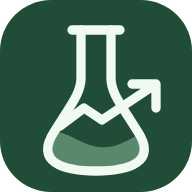
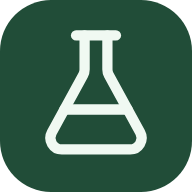
Ship the licensed PWA flask and notice (SW341) (#432)
SW341: Lizenzierter Kolben für Favicon und PWA

Changed region(s): [[0.2188, 0.125, 0.8438, 0.9375]]

diff --git a/sw.js b/sw.js
@@ -1,5 +1,5 @@
-const CACHE='foliolab-open-v340';
-const ASSETS=['./src/portfolio-projection.js','./src/portfolio-projection-ui.js','./src/install-hint-preference.js','./src/wallet-identity.js','./src/flatex-net-reconciliation.js','./src/shared-flatex-reconciliation-ui.js','./src/shared-import.js','./src/shared-import-ui.js','./src/shared-flatex-ui.js','./','./src/link-explorer-evidence.js','./src/kraken-link-bridge.js','./src/flatex-net-settlement.js','./src/startup.js','./src/loading-ui.js','./icons/flask-192.png','./icons/flask-512.png','./icons/flask-maskable-512.png','./src/unified-bitcoin.js','./src/unified-bitcoin-ui.js','./src/retired-providers.js','./src/marketstack.js','./src/alpha-vantage.js','./src/backup-limits.js','./src/header-status.js','./src/blocked-reasons-ui.js','./src/flatex-native-ui.js','./src/flatex-native.js','./src/bitpanda-preview-ui.js','./src/csv-records.js','./src/bitpanda-preview.js','./src/bitpanda-import.js','./src/bitpanda-withdrawal-evidence.js','./src/bitpanda-import-ui.js','./src/kraken-ledger.js','./src/kraken-ledger-ui.js','./src/kraken-source-plan.js','./src/kraken-bitcoin-bridge.js','./src/kraken-ethereum-bridge.js','./src/kraken-solana-bridge.js','./src/kraken-import.js','./src/kraken-withdrawal-evidence.js','./src/kraken-import-ui.js','./src/pchain-identity.js','./src/reference-management.js','./src/sonic-staking-evidence.js','./src/pchain-evidence.js','./src/ledger-live.js','./src/ledger-live-ui.js','./src/account-evidence.js','./src/booking-management.js','./src/csv-batch.js','./src/history-evidence-cache.js','./src/wealth-model-history.js','./src/history-display-estimates.js','./src/historical-portfolio-value.js','./src/historical-position-value.js','./src/purchase-evidence.js','./src/purchase-evidence-ui.js','./src/interest-ui.js','./src/interest-account.js','./src/interest-scenario.js','./src/cash-reconciliation.js','./src/cash-terms.js','./src/cash-terms-ui.js','./src/wallet-history-calculation.js','./src/wallet-history-days-worker.js','./src/wallet-history-valuation.js','./src/solana-history.js','./src/wallet-history-days.js','./src/wallet-history-ui.js','./src/wallet-history-state.js','./src/ethereum-history.js','./src/bitcoin-history.js','./src/wallet-history-core.js','./src/import-identity.js','./index.html','./styles.css','./src/credential-visibility.js','./src/economic-form-ui.js','./src/dialog-discard.js','./src/app.js','./src/drive-backup.js','./src/backup-vault.js','./src/complete-backup.js','./src/account-opening.js','./src/portfolio-edit-actions.js','./src/position-selection.js','./src/coin-identity.js','./src/position-search.js','./src/asset-wizard.js','./src/asset-wizard-core.js','./src/public-instruments-client.js','./src/refresh-ui.js','./src/refresh-frequency.js','./src/market-diagnostics.js','./src/quote-quality.js','./src/dashboard-ui.js','./src/chart-periods.js','./src/position-history.js','./src/eodhd-transport.js','./src/eodhd-worker-client.js','./src/security-sources.js','./src/security-discovery.js','./src/onboarding-suggestions.js','./src/reference-listings.js','./src/instrument-catalog.js','./src/security-catalog.js','./src/crypto-fallbacks.js','./src/historical-csv.js','./src/position-detail-ui.js','./src/position-bookings.js','./src/flatex-review-export.js','./src/allocation-ui.js','./src/position-quality-review.js','./src/valuation-status.js','./src/legacy-quote-audit.js','./src/atomic-storage.js','./src/browser-portfolio-storage.js','./src/model.js','./src/fx-state.js','./src/assets.js','./src/decimal.js','./src/transfer-matching-ui.js','./src/transactions.js','./src/blockchain-adapters.js','./src/performance.js','./src/market.js','./src/staking-discovery.js','./src/bnb-token-scanner.js','./src/solana-rpc.js','./src/wallet-scan-update.js','./src/ethereum-fallback.js','./src/native-staking-networks.js','./src/staking-catalog.js','./src/wallet-visibility.js','./src/request-cache.js','./src/csv-import.js','./src/flatex-import.js','./src/flatex-reconciliation.js','./src/flatex-backfill.js','./src/flatex-cost-basis.js','./src/flatex-settlements.js','./src/flatex-settlement-audit.js','./src/flatex-cash-audit.js','./src/booking-history.js','./src/booking-history-ui.js','./src/booking-insights-ui.js','./src/booking-insights.js','./src/capital-flows.js','./src/xrpl-assets.js','./src/bitcoin-hd.js','./src/defi.js','./src/position-icons.js','./src/format.js','./src/crypto-backup.js','./icons/flask.svg','./manifest.webmanifest'];
+const CACHE='foliolab-open-v341';
+const ASSETS=['./src/portfolio-projection.js','./src/portfolio-projection-ui.js','./src/install-hint-preference.js','./src/wallet-identity.js','./src/flatex-net-reconciliation.js','./src/shared-flatex-reconciliation-ui.js','./src/shared-import.js','./src/shared-import-ui.js','./src/shared-flatex-ui.js','./','./src/link-explorer-evidence.js','./src/kraken-link-bridge.js','./src/flatex-net-settlement.js','./src/startup.js','./src/loading-ui.js','./icons/flask-192.png','./icons/flask-512.png','./icons/flask-maskable-512.png','./src/unified-bitcoin.js','./src/unified-bitcoin-ui.js','./src/retired-providers.js','./src/marketstack.js','./src/alpha-vantage.js','./src/backup-limits.js','./src/header-status.js','./src/blocked-reasons-ui.js','./src/flatex-native-ui.js','./src/flatex-native.js','./src/bitpanda-preview-ui.js','./src/csv-records.js','./src/bitpanda-preview.js','./src/bitpanda-import.js','./src/bitpanda-withdrawal-evidence.js','./src/bitpanda-import-ui.js','./src/kraken-ledger.js','./src/kraken-ledger-ui.js','./src/kraken-source-plan.js','./src/kraken-bitcoin-bridge.js','./src/kraken-ethereum-bridge.js','./src/kraken-solana-bridge.js','./src/kraken-import.js','./src/kraken-withdrawal-evidence.js','./src/kraken-import-ui.js','./src/pchain-identity.js','./src/reference-management.js','./src/sonic-staking-evidence.js','./src/pchain-evidence.js','./src/ledger-live.js','./src/ledger-live-ui.js','./src/account-evidence.js','./src/booking-management.js','./src/csv-batch.js','./src/history-evidence-cache.js','./src/wealth-model-history.js','./src/history-display-estimates.js','./src/historical-portfolio-value.js','./src/historical-position-value.js','./src/purchase-evidence.js','./src/purchase-evidence-ui.js','./src/interest-ui.js','./src/interest-account.js','./src/interest-scenario.js','./src/cash-reconciliation.js','./src/cash-terms.js','./src/cash-terms-ui.js','./src/wallet-history-calculation.js','./src/wallet-history-days-worker.js','./src/wallet-history-valuation.js','./src/solana-history.js','./src/wallet-history-days.js','./src/wallet-history-ui.js','./src/wallet-history-state.js','./src/ethereum-history.js','./src/bitcoin-history.js','./src/wallet-history-core.js','./src/import-identity.js','./index.html','./styles.css','./src/credential-visibility.js','./src/economic-form-ui.js','./src/dialog-discard.js','./src/app.js','./src/drive-backup.js','./src/backup-vault.js','./src/complete-backup.js','./src/account-opening.js','./src/portfolio-edit-actions.js','./src/position-selection.js','./src/coin-identity.js','./src/position-search.js','./src/asset-wizard.js','./src/asset-wizard-core.js','./src/public-instruments-client.js','./src/refresh-ui.js','./src/refresh-frequency.js','./src/market-diagnostics.js','./src/quote-quality.js','./src/dashboard-ui.js','./src/chart-periods.js','./src/position-history.js','./src/eodhd-transport.js','./src/eodhd-worker-client.js','./src/security-sources.js','./src/security-discovery.js','./src/onboarding-suggestions.js','./src/reference-listings.js','./src/instrument-catalog.js','./src/security-catalog.js','./src/crypto-fallbacks.js','./src/historical-csv.js','./src/position-detail-ui.js','./src/position-bookings.js','./src/flatex-review-export.js','./src/allocation-ui.js','./src/position-quality-review.js','./src/valuation-status.js','./src/legacy-quote-audit.js','./src/atomic-storage.js','./src/browser-portfolio-storage.js','./src/model.js','./src/fx-state.js','./src/assets.js','./src/decimal.js','./src/transfer-matching-ui.js','./src/transactions.js','./src/blockchain-adapters.js','./src/performance.js','./src/market.js','./src/staking-discovery.js','./src/bnb-token-scanner.js','./src/solana-rpc.js','./src/wallet-scan-update.js','./src/ethereum-fallback.js','./src/native-staking-networks.js','./src/staking-catalog.js','./src/wallet-visibility.js','./src/request-cache.js','./src/csv-import.js','./src/flatex-import.js','./src/flatex-reconciliation.js','./src/flatex-backfill.js','./src/flatex-cost-basis.js','./src/flatex-settlements.js','./src/flatex-settlement-audit.js','./src/flatex-cash-audit.js','./src/booking-history.js','./src/booking-history-ui.js','./src/booking-insights-ui.js','./src/booking-insights.js','./src/capital-flows.js','./src/xrpl-assets.js','./src/bitcoin-hd.js','./src/defi.js','./src/position-icons.js','./src/format.js','./src/crypto-backup.js','./icons/flask.svg','./icons/LICENSE-Lucide.txt','./manifest.webmanifest'];
 self.addEventListener('install',event=>{
   // A new version must not inherit still-fresh HTTP-cache bytes from the old
   // deployment. Cache API requests otherwise use the browser's HTTP cache.
